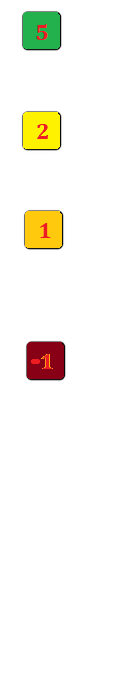
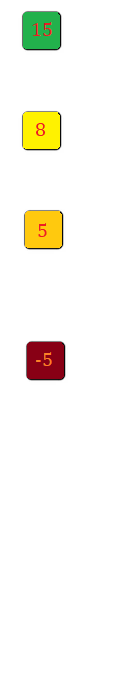
arregloDificultadMasDisparos

diff --git a/player.js b/player.js
@@ -28,6 +28,7 @@ class Player {
     }
     setListeners() {
         document.onkeydown = function(event) {
+            
             if (event.keyCode === this.keys.TOP_KEY ){
                 this.dy =-5
     
@@ -39,13 +40,10 @@ class Player {
             
             };
             if (event.keyCode === this.keys.D_KEY ){
-               
-                  this.shoot();
-               
-                  
-    
-                
+        
+           
             
+    
             };
             if (event.keyCode === this.keys.A_KEY ){
                 
@@ -53,6 +51,10 @@ class Player {
 
             
             };
+            document.onkeypress = function(event) {
+                
+
+            }
         }.bind(this)
 
         document.onkeyup = function(event) {
@@ -62,6 +64,10 @@ class Player {
             };
             if (event.keyCode === this.keys.BOT_KEY ){
                 this.dy = 0
+  
+            }
+            if (event.keyCode === this.keys.D_KEY ){
+                this.shoot()
   
             }
                 
@@ -125,7 +131,12 @@ class Player {
             this.h,
             this.ctx,
             )
-            this.bullets.push(bullet)
+
+                this.bullets.push(bullet)
+            
+
+          
+            
         
     }
     explo(){

diff --git a/game.js b/game.js
@@ -6,7 +6,7 @@ const Game = {
     keys: {
         TOP_KEY: 87,
         BOT_KEY: 83,
-        D_KEY: 68,
+        D_KEY : 68,
         A_KEY: 65,
     },
     
@@ -46,20 +46,20 @@ const Game = {
 
 
             if(this.isImpacto1()) {
+                console.log("15")
+                this.caballoPlayer.acelera(15);
+            }
+            if(this.isImpacto2()) {
+                console.log("8")
+                this.caballoPlayer.acelera(8);
+            }
+            if(this.isImpacto3()) {
                 console.log("5")
                 this.caballoPlayer.acelera(5);
             }
-            if(this.isImpacto2()) {
-                console.log("2")
-                this.caballoPlayer.acelera(2);
-            }
-            if(this.isImpacto3()) {
-                console.log("1")
-                this.caballoPlayer.acelera(1);
-            }
             if(this.isImpacto4()) {
-                console.log("4")
-                this.caballoPlayer.desacelera(1);
+                console.log("-5")
+                this.caballoPlayer.desacelera(-5);
             }
             
             if(this.isCollision()) {
